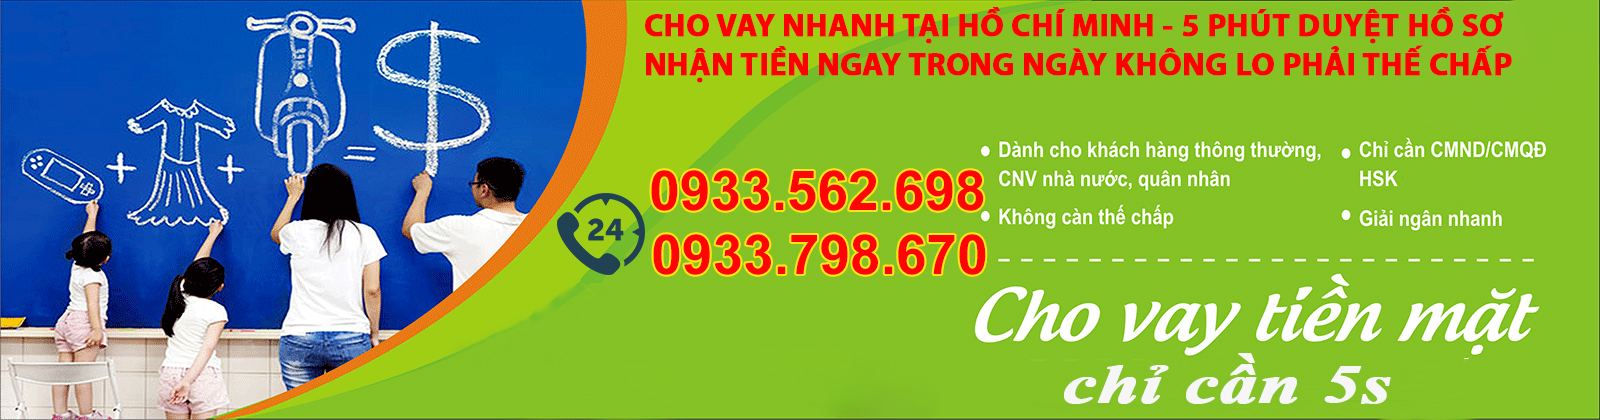
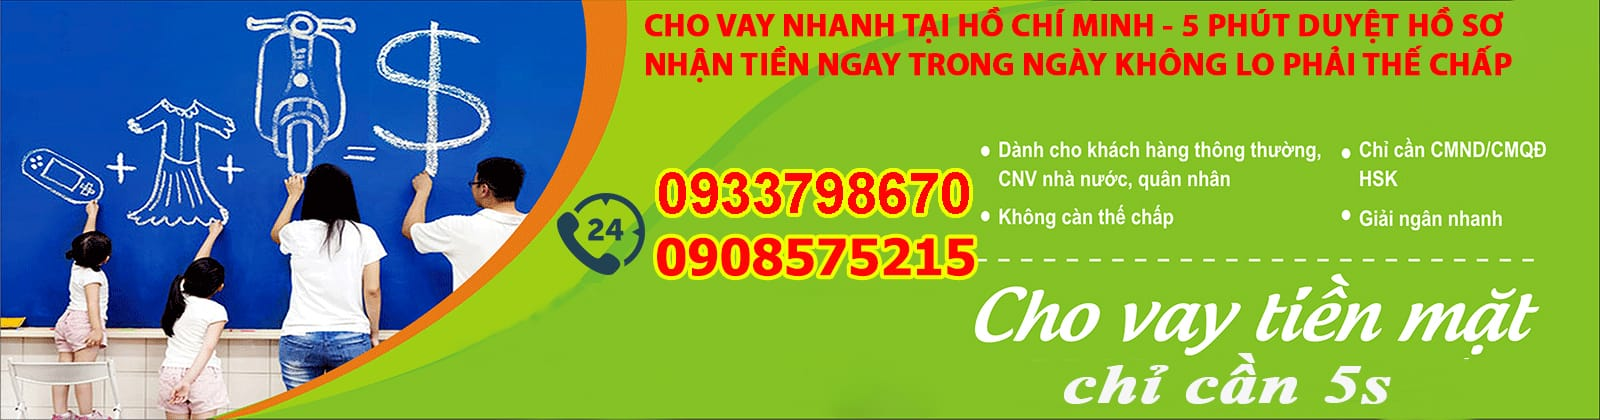
ad

diff --git a/index.html b/index.html
@@ -110,7 +110,7 @@
                             <div class="hotline-top">
 
                                 Hotline: <a onclick="return gtag_report_conversion('tel:0933798670');" href="tel:0933798670">0933.798.670</a> | 
-                                <a onclick="return gtag_report_conversion('tel:0933562698');" href="tel:0933562698">0933.562.698</a>
+                                <a onclick="return gtag_report_conversion('tel:0908575215');" href="tel:0908575215">0908.575.215</a>
 
 
 
@@ -977,19 +977,19 @@
 <p>C&oacute; lỗi xảy ra</p>
 </div>
 <script>
-    const scriptURL = 'https://script.google.com/macros/s/AKfycbyb_If18Y--GrA6sv9GZc0q_fRX0vHXq7cTYbS89Q/exec'
-    const form = document.forms['submit-to-google-sheet']
-    const formmodal = document.forms['submit-to-google-sheet-modal']
-    const loading = document.querySelector('.js-loading')
-    const successMessage = document.querySelector('.js-success-message')
-    const errorMessage = document.querySelector('.js-error-message')
+    const scriptURL = 'https://script.google.com/macros/s/AKfycbyXH-pa2FXcQMxZ1nEMKug9XjikR_PSZ8s6mNb3LhLU3B-PoU85/exec';
+    const form = document.forms['submit-to-google-sheet'];
+    const formmodal = document.forms['submit-to-google-sheet-modal'];
+    const loading = document.querySelector('.js-loading');
+    const successMessage = document.querySelector('.js-success-message');
+    const errorMessage = document.querySelector('.js-error-message');
 
     form.addEventListener('submit', e => {
       e.preventDefault()
       showLoadingIndicator()
       fetch(scriptURL, { method: 'POST', body: new FormData(form)})
         .then(response => showSuccessMessage(response))
-        .catch(error => showErrorMessage(error))
+        .catch(error => showSuccessMessage("OK"))
     })
 
     function showLoadingIndicator () {
@@ -1487,7 +1487,7 @@
 
 
                     <h2 class="title-box">
-                        <a style="color:#f3640a; font-size:24px;" onclick="return gtag_report_conversion('tel:0933562698');" href="tel:0933562698">0933.562.698</a>
+                        <a style="color:#f3640a; font-size:24px;" onclick="return gtag_report_conversion('tel:0908575215');" href="tel:0908575215">0908.575.215</a>
                         <br>
                         <a style="color:#f3640a; font-size:24px;" onclick="return gtag_report_conversion('tel:0933798670');" href="tel:0933798670">0933.798.670</a>
 
@@ -1532,7 +1532,7 @@
 
     <center>
         <a onclick="return gtag_report_conversion('tel:0933798670');" href="tel:0933798670" style="font-size: 45px;color: #fd0000;"><strong>0933.798.670</strong></a> &&
-        <a onclick="return gtag_report_conversion('tel:0933562698');" href="tel:0933562698" style="font-size: 45px;color: #fd0000;"><strong>0933.562.698</strong></a>       
+        <a onclick="return gtag_report_conversion('tel:0908575215');" href="tel:0908575215" style="font-size: 45px;color: #fd0000;"><strong>0908.575.215</strong></a>       
     </center>   
 
 
@@ -1549,7 +1549,7 @@
 
             <div id="Module73">Cho vay tiền nhanh không cần thế chấp tại TP.Hồ Chí Minh<br>
 
-                Điện thoại: <a href="tel:0933562698"><strong>0933.562.698</strong></a> | <a href="tel:0933798670"><strong>0933.798.670</strong></a>
+                Điện thoại: <a href="tel:0908575215"><strong>0908.575.215</strong></a> | <a href="tel:0933798670"><strong>0933.798.670</strong></a>
 
                 <br>Cho vay tiền nhanh không cần thế chấp tại TP.Hồ Chí Minh chỉ cần 5s là bạn có ngay tiền mặt không tốn thời gian
 
@@ -1573,7 +1573,7 @@
 
     <br>
     <i class="fa fa-phone"></i> 
-    <a onclick="return gtag_report_conversion('tel:0933562698');" href="tel:0933562698"><strong>0933.562.698 Tư vấn 24/7</strong></a>
+    <a onclick="return gtag_report_conversion('tel:0908575215');" href="tel:0908575215"><strong>0908.575.215 Tư vấn 24/7</strong></a>
 
 
 </p>
@@ -1665,7 +1665,7 @@
 
                       <div id="Module79">
 
-                         <p style="text-align:start">Quý khách có nhu cầu vay vốn, tín dụng xin liên hệ Hotline: <a href="tel:0933798670"><strong>0933.798.670</strong></a> | <a href="tel:0933562698"><strong>0933.562.698</strong></a> hoặc điền thông tin vào form dưới đây nhé.</p>
+                         <p style="text-align:start">Quý khách có nhu cầu vay vốn, tín dụng xin liên hệ Hotline: <a href="tel:0933798670"><strong>0933.798.670</strong></a> | <a href="tel:0908575215"><strong>0908.575.215</strong></a> hoặc điền thông tin vào form dưới đây nhé.</p>
 
                      </div>
 
@@ -1729,7 +1729,7 @@
 
             </div> -->
 
-            <div class="Hotline-popup"><span><a href="tel:0933562698"><strong>0933.562.698</strong></a>  <a href="tel:0933798670"><strong>0933.798.670</strong></a></span></div>
+            <div class="Hotline-popup"><span><a href="tel:0908575215"><strong>0908.575.215</strong></a>  <a href="tel:0933798670"><strong>0933.798.670</strong></a></span></div>
 
         </div>
 
